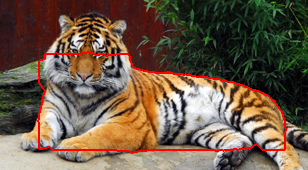
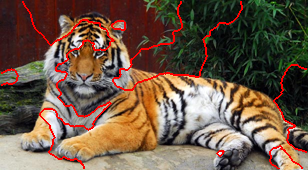
The same

diff --git a/solutions/my_functions/mixture_prob.m b/solutions/my_functions/mixture_prob.m
@@ -22,29 +22,19 @@ function prob = mixture_prob(image, K, L, mask)
   % mu_k -> centers
   [segmentation centers] = kmeans_segm(image_masked, K, L, 1421);
 
-%  centers_without_black = centers;
-  %blacks_idx = find(centers_without_black < 0.0001);
-  %centers_without_black(blacks_idx) = [];
-  %centers_without_black = reshape(centers_without_black, size(centers,1) - size(blacks_idx,1) / 3, 3);
-  %delete_idx = blacks_idx(1:size(blacks_idx,1)/3);
-
   % Reshape segmentation into one column
   segmentation = reshape(segmentation, size(segmentation,1) * size(segmentation,2), 1);
 
   % sigma_k
   cov = cell(K,1);
-  cov(:) = {eye(3)};
+  cov(:) = {100 * rand * eye(3) + ones(3,3)};
 
   % w_k
   w = zeros(K, 1);
 
   for i = 1:K
-    w(i) = (sum(segmentation(:,1) == i) + 1);
+    w(i) = sum(segmentation(:,1) == i) + 1;
   end
-
-%  for i = 1:size(delete_idx,1)
-    %w(delete_idx(i)) = 1;
-  %end
 
   w = w / sum(w,1);
 
@@ -65,9 +55,9 @@ function prob = mixture_prob(image, K, L, mask)
 % --------- Expectation: Compute probabilities P_ik using masked pixels --------
     for kernel = 1:K
 
-      diff = bsxfun(@minus, image_masked_vec, centers(kernel, :));
+      diff = abs(bsxfun(@minus, image_masked_vec, centers(kernel, :)));
 
-      g(:,kernel) = ((2 * pi)^3 * det(cov{kernel}))^(-1/2) * ...
+      g(:,kernel) = ((2 * pi)^3 * abs(det(cov{kernel})))^(-1/2) * ...
         exp(-0.5 * sum(diff * inv(cov{kernel}) .* diff, 2));
 
       % g should sum up to one
@@ -83,8 +73,8 @@ function prob = mixture_prob(image, K, L, mask)
 
 
     for kernel = 1:K
-      %p(:,kernel) = nom_p(:,kernel) .* spfun(@(x) 1./(x), sum_denom_p);
-      p(:,kernel) = nom_p(:,kernel);% ./ sum_denom_p;
+      p(:,kernel) = nom_p(:,kernel) ./ sum_denom_p;
+      %p(:,kernel) = nom_p(:,kernel);
 
       % Normalize?
       %p(:,kernel) = p(:,kernel) / sum(p(:,kernel), 1);
@@ -105,15 +95,12 @@ function prob = mixture_prob(image, K, L, mask)
 
       diff = bsxfun(@minus, image_masked_vec, centers(kernel, :));
 
-
-      %d = p(:,kernel)' * diff * diff';
       d = diff' * (diff .* repmat(p(:,kernel), [1 3]));
-      %d = d';
-      %d = d / sum(d,1);
       %cov{kernel} =  abs(sum(d,1)) / sum(p(:, kernel), 1) * eye(3);
       diag_d = diag(diag(d));
-      cov{kernel} = diag_d / sum(p(:, kernel), 1) + 0.1 * eye(3);
-      %g(:,kernel) = g(:,kernel) / sum(g(:,kernel), 1);
+      %cov{kernel} = (diag_d - 0.0000001 * eye(3)) / sum(p(:, kernel), 1); % works?
+      cov{kernel} = (diag_d + 0.0000001 * eye(3)) / sum(p(:, kernel), 1); % works?
+
     end
 
   end

diff --git a/bildat_lab3/graphcut_example.m b/bildat_lab3/graphcut_example.m
@@ -4,11 +4,11 @@
 %alpha = 8.0;                 % maximum edge cost
 %sigma = 10.0;                % edge cost decay factor
 
-scale_factor = 0.5;          % image downscale factor
-area = [ 80, 110, 570, 300 ] % image region to train foreground with
-K = 16;                      % number of mixture components
-alpha = 8.0;                 % maximum edge cost
-sigma = 10.0;                % edge cost decay factor
+scale_factor = 0.5;           % image downscale factor
+area = [ 80, 110, 570, 300 ]; % image region to train foreground with
+K = 16;                       % number of mixture components
+alpha = 8.0;                  % maximum edge cost
+sigma = 10.0;                 % edge cost decay factor
 
 I = imread('tiger1.jpg');
 I = imresize(I, scale_factor);
